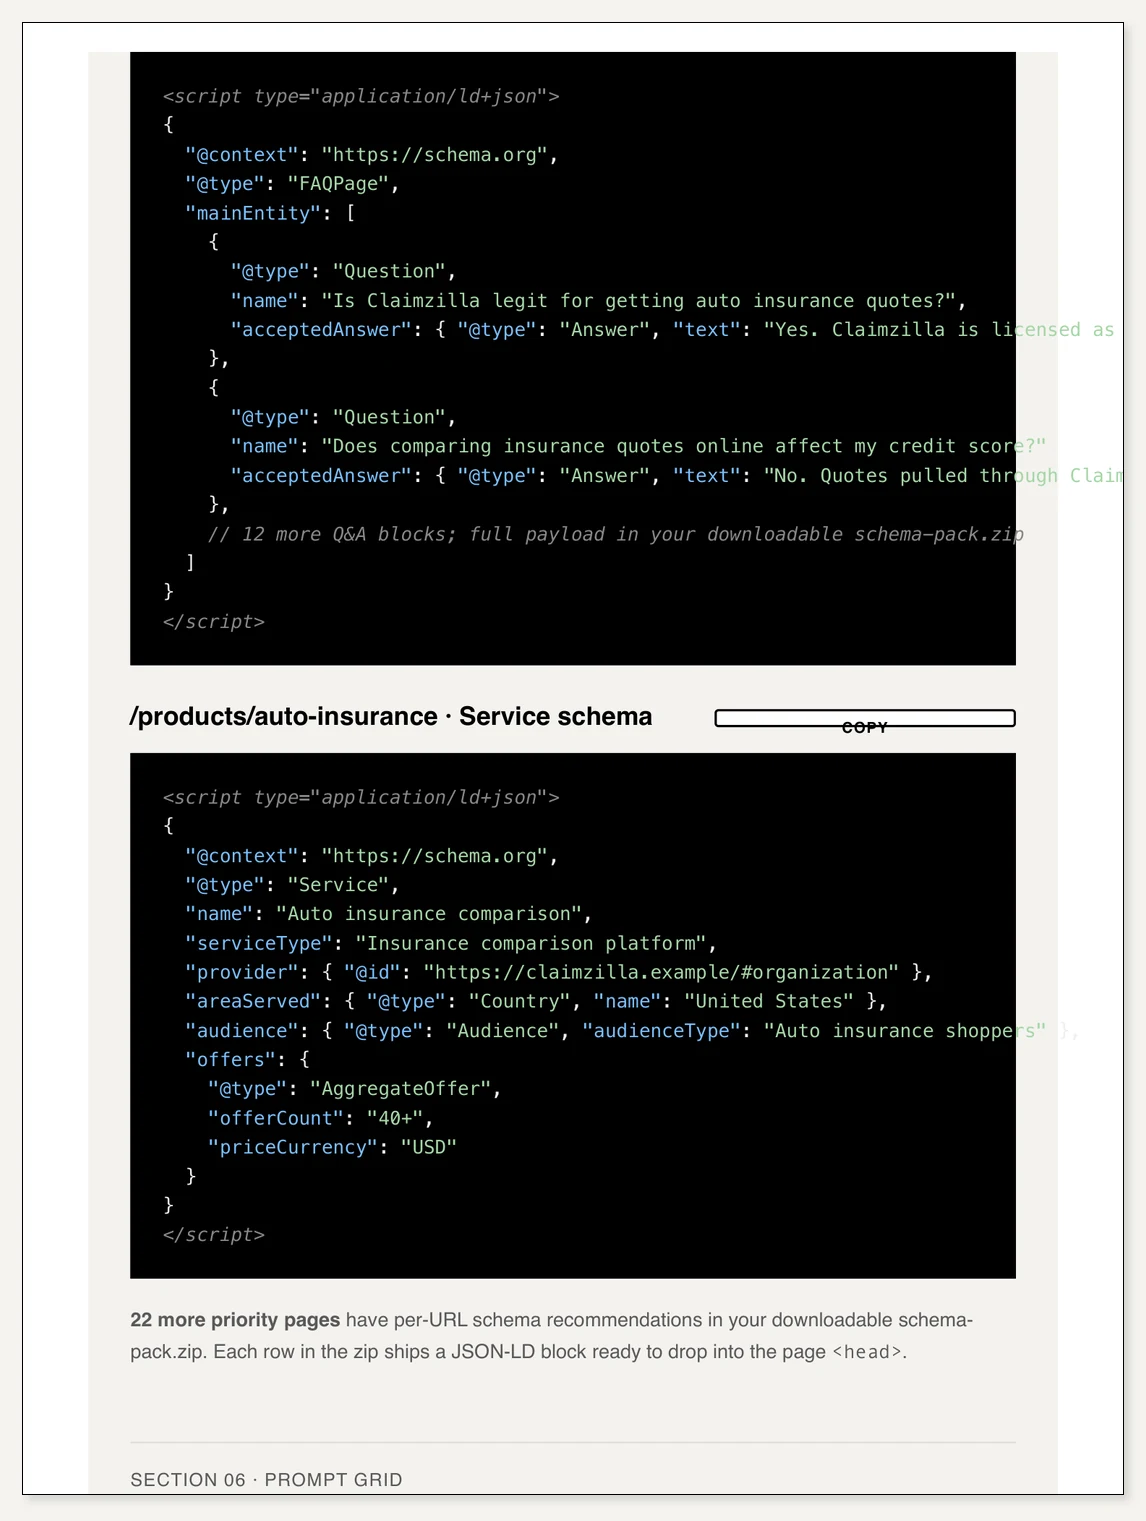
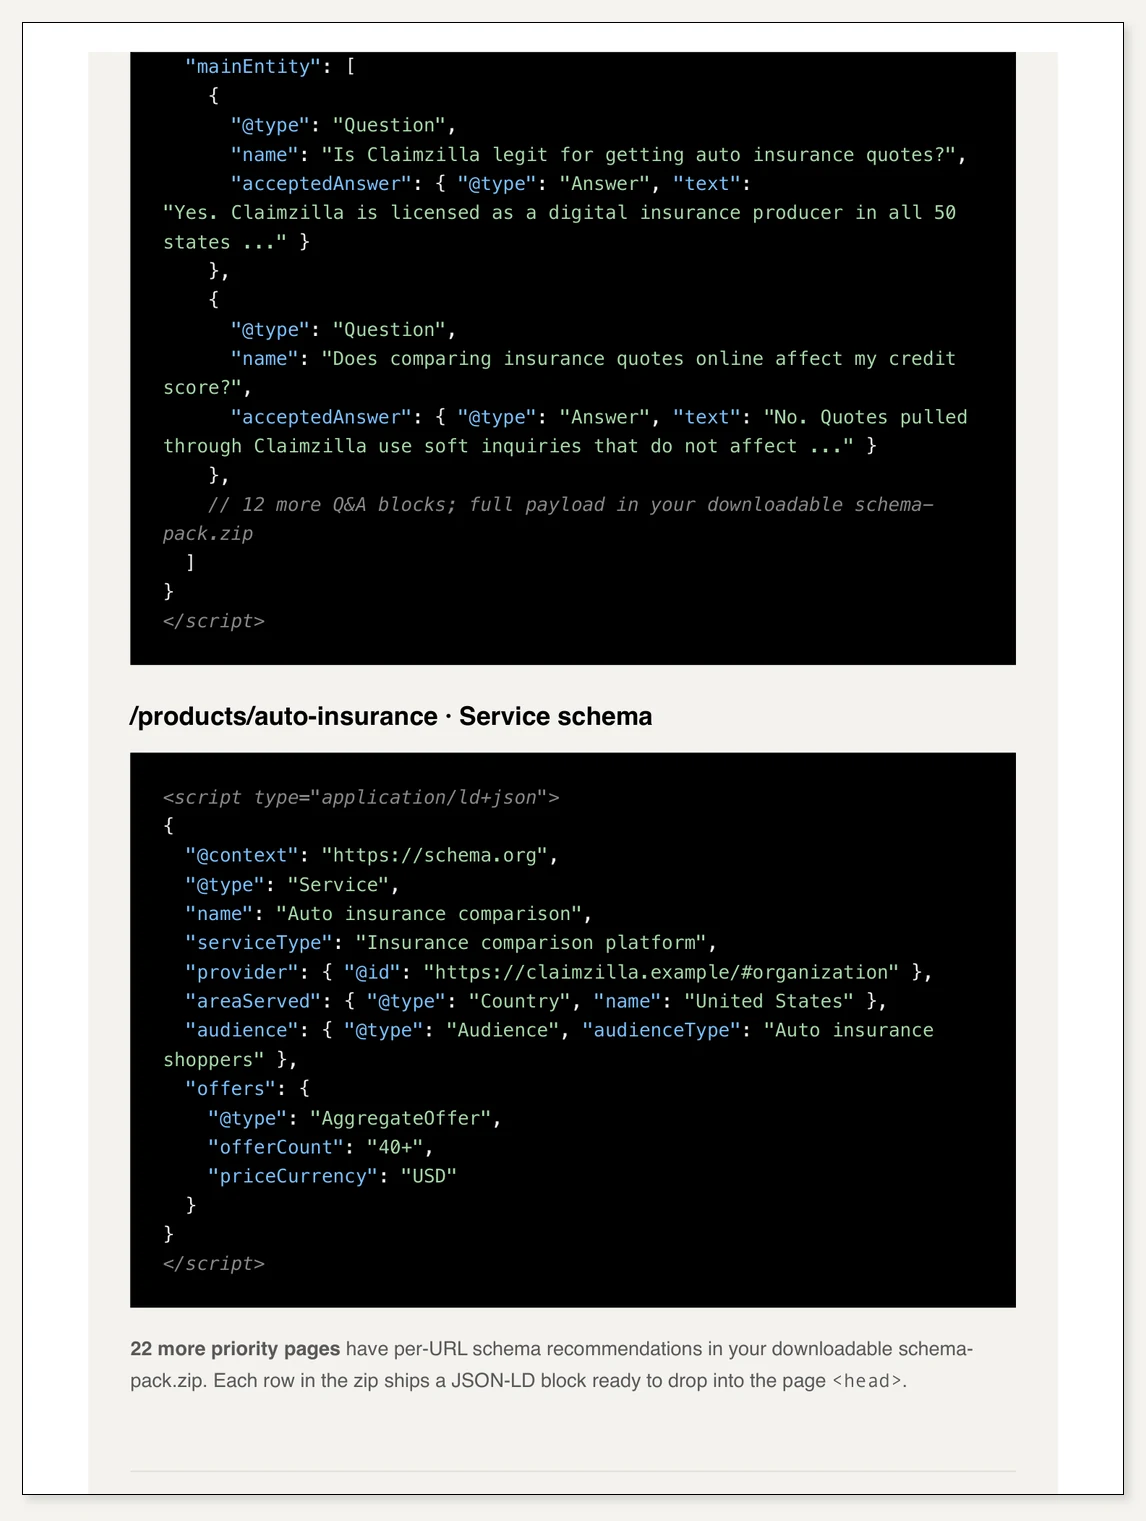
fix(playbook,gallery): hide copy buttons + wrap long JSON-LD in PDF render (#36)
The Code tile (Playbook section 05) had two render bugs visible
in the marketing screenshot:

1. The COPY button rendered with what looked like a strikethrough
   through the word "COPY". Diagnosis: the .copy-pill button's
   contents were being rendered with a stray decoration line in
   WeasyPrint's PDF mode. The button is purely interactive
   (clipboard write on click) and has no use in a printed/exported
   PDF.

2. Long JSON-LD string values (e.g., "Yes. Claimzilla is licensed
   as a digital insurance producer in all 50 states ...") ran off
   the right edge of the dark code block. The .schema-block uses
   a <pre> with the default white-space: pre, paired with
   overflow-x: auto. Browsers handle this with a horizontal
   scrollbar, but a PDF can't scroll, so anything past the box
   width gets clipped or rendered overlapping the page edge.

Fix: a single @media print {} block in the playbook HTML head:
- .copy-pill { display: none } so the buttons don't render in PDF
- .pb-toast  { display: none } in case it ever flashes during render
- .schema-block { white-space: pre-wrap; word-break: break-word;
  overflow-x: visible } so long lines wrap inside the dark block
  instead of overflowing

WeasyPrint's default media is "print" so these rules apply only
to PDF rendering. The live HTML view (when the operator opens
playbook-claimzilla.html in Chrome) is unaffected: copy buttons
still render, code blocks still scroll horizontally on overflow.
[…]

diff --git a/docs/sample/playbook-claimzilla.html b/docs/sample/playbook-claimzilla.html
@@ -237,6 +237,22 @@
     .schema-block .key { color: #79c0ff; }
     .schema-block .str { color: #a5d6a7; }
     .schema-block .com { color: #888; font-style: italic; }
+
+    /* WeasyPrint PDF render: hide interactive UI that has no use in
+       a printed/exported document, and let JSON-LD wrap so long
+       string values don't overflow off the right edge of the dark
+       code block. WeasyPrint's default media is "print" so these
+       rules apply only during PDF rendering, not the live HTML
+       view. */
+    @media print {
+      .copy-pill { display: none !important; }
+      .pb-toast  { display: none !important; }
+      .schema-block {
+        white-space: pre-wrap;
+        word-break: break-word;
+        overflow-x: visible;
+      }
+    }
     .schema-card-head {
       display: flex; align-items: center; justify-content: space-between;
       margin-top: 22px; margin-bottom: 6px;
